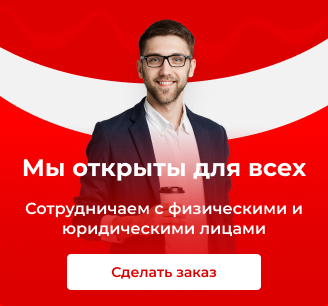
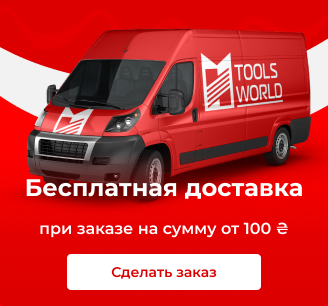
redesign main page slider promo

diff --git a/src/js/components/main-page/slider-promo.vue b/src/js/components/main-page/slider-promo.vue
@@ -1,32 +1,32 @@
 <template>
-    <div class="slider-promo">
-        <div class="slider-promo__title">Промо моменты</div>
-        <agile :options="options">
-            
-            <div @click="openModal" class="slider-promo__slide" v-for="slide in promoBanners">
-                <div class="">
-                    <img :src="slide.img" alt="">
-                </div>
-                <!-- <div class="slider-promo__modal">
-                    <svg class="slider-promo__modal-icon">
-                        <use :xlink:href="templatePath + 'images/sprite.svg#icons__link'"></use>
-                    </svg>
-                    <p @click="openModal" class="slider-promo__modal-text">Подробнее об акции</p>
-                </div> -->
+    <agile :options="options">
+
+        <div @click="openModal" class="slider-promo__slide" v-for="slide in promoBanners">
+            <div class="slider-promo__slide_content" 
+                 :class="'slider-promo__slide_content--' + slide.theme"
+            >
+                <img :src="slide.img" alt="">
+                <span class="slider-promo__slide_title">{{ slide.title }}</span>
             </div>
-            
-            <template slot="prevButton">
-                <svg>
-                    <use :xlink:href="templatePath + 'images/sprite.svg#arrows__arr-long-left'"></use>
+            <!-- <div class="slider-promo__modal">
+                <svg class="slider-promo__modal-icon">
+                    <use :xlink:href="templatePath + 'images/sprite.svg#icons__link'"></use>
                 </svg>
-            </template>
-            <template slot="nextButton">
-                <svg>
-                    <use :xlink:href="templatePath + 'images/sprite.svg#arrows__arr-long-right'"></use>
-                </svg>
-            </template>
-        </agile>
-    </div>
+                <p @click="openModal" class="slider-promo__modal-text">Подробнее об акции</p>
+            </div> -->
+        </div>
+
+        <template slot="prevButton">
+            <svg>
+                <use :xlink:href="templatePath + 'images/sprite.svg#arrows__arr-long-left'"></use>
+            </svg>
+        </template>
+        <template slot="nextButton">
+            <svg>
+                <use :xlink:href="templatePath + 'images/sprite.svg#arrows__arr-long-right'"></use>
+            </svg>
+        </template>
+    </agile>
 </template>
 
 <script>

diff --git a/src/styles/blocks/slider-promo.sass b/src/styles/blocks/slider-promo.sass
@@ -19,12 +19,30 @@
             transition: 200ms
             object-fit: cover
             object-position: center center
+            position: relative
             z-index: -1
             +desktop
                 +full-content
         & a
             display: block
             border-radius: 4px
+        &_content
+            width: 100%
+            height: 100%
+            &--black
+                background: linear-gradient(180deg, rgba(0, 20, 39, 0) 50%, rgba(0, 20, 39, 0.8) 75%, #001427 100%)
+            &--red
+                background: linear-gradient(180deg, rgba(220, 0, 0, 0) 50%, rgba(220, 0, 0, 0.5) 75%, #DC0000 100%)
+        &_title
+            +absolute-center-y
+            font-size: 14px
+            color: $white
+            bottom: 30px
+            width: 75%
+            text-align: center
+            z-index: 1
+            +desktop
+                font-size: 18px
     & .agile__list
         padding: 30px 0
         
